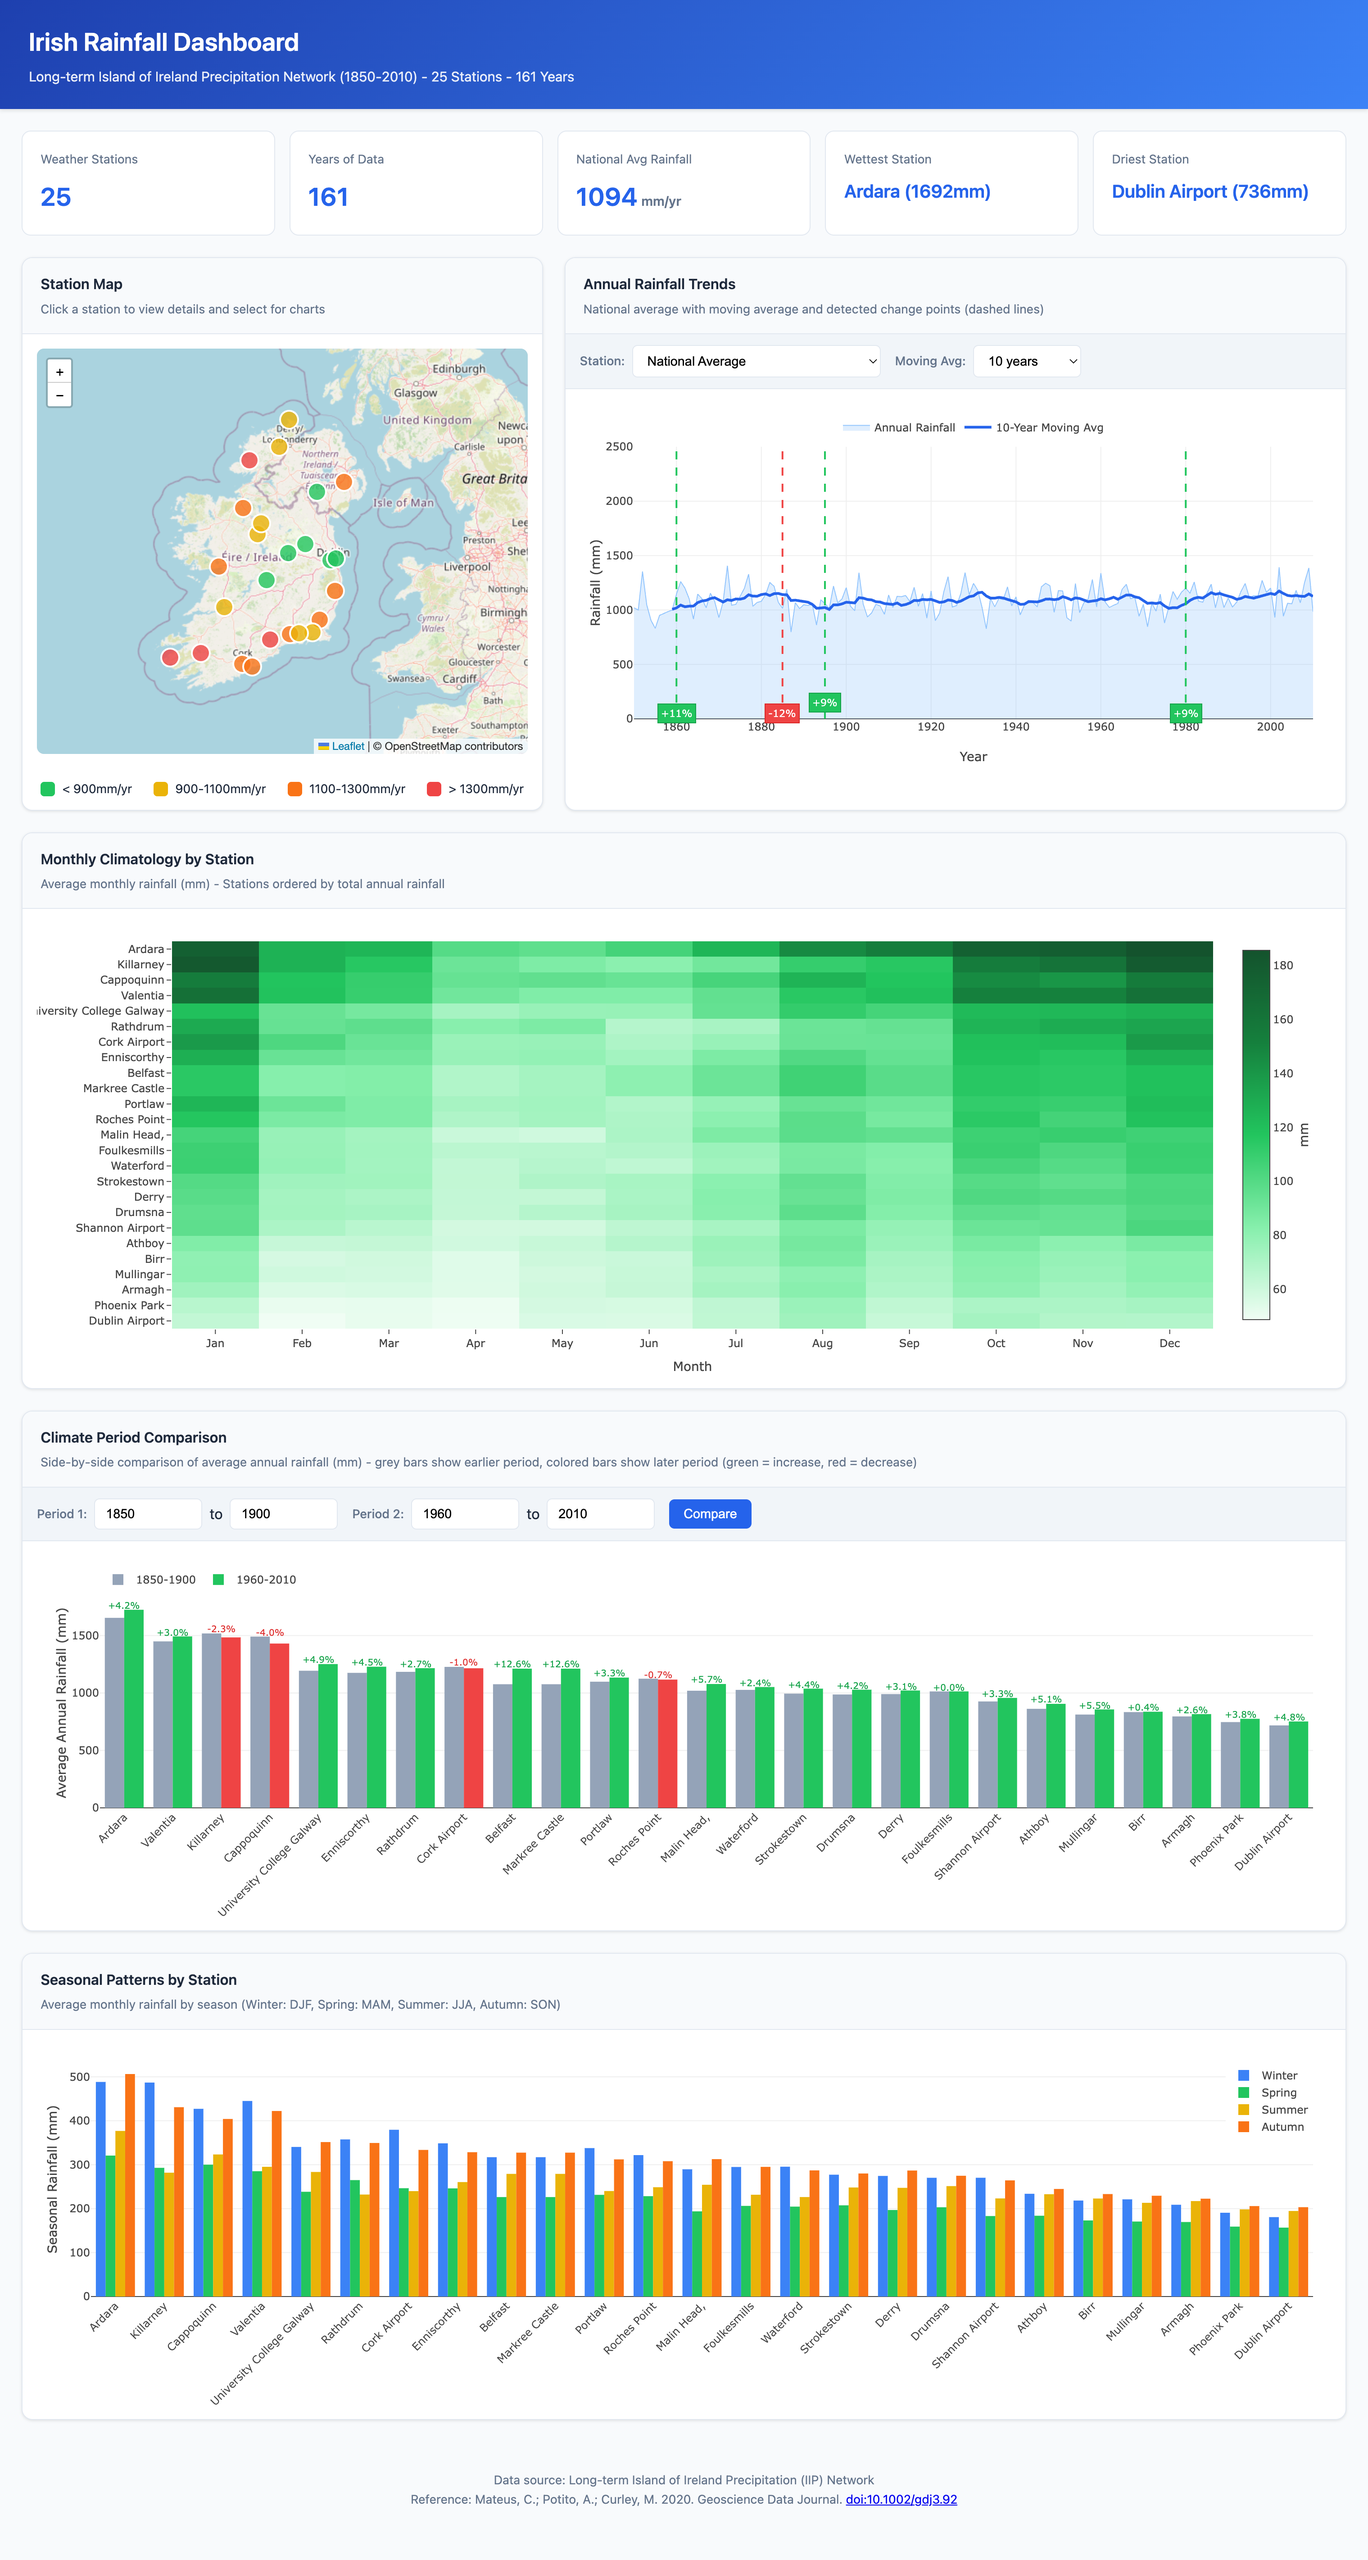
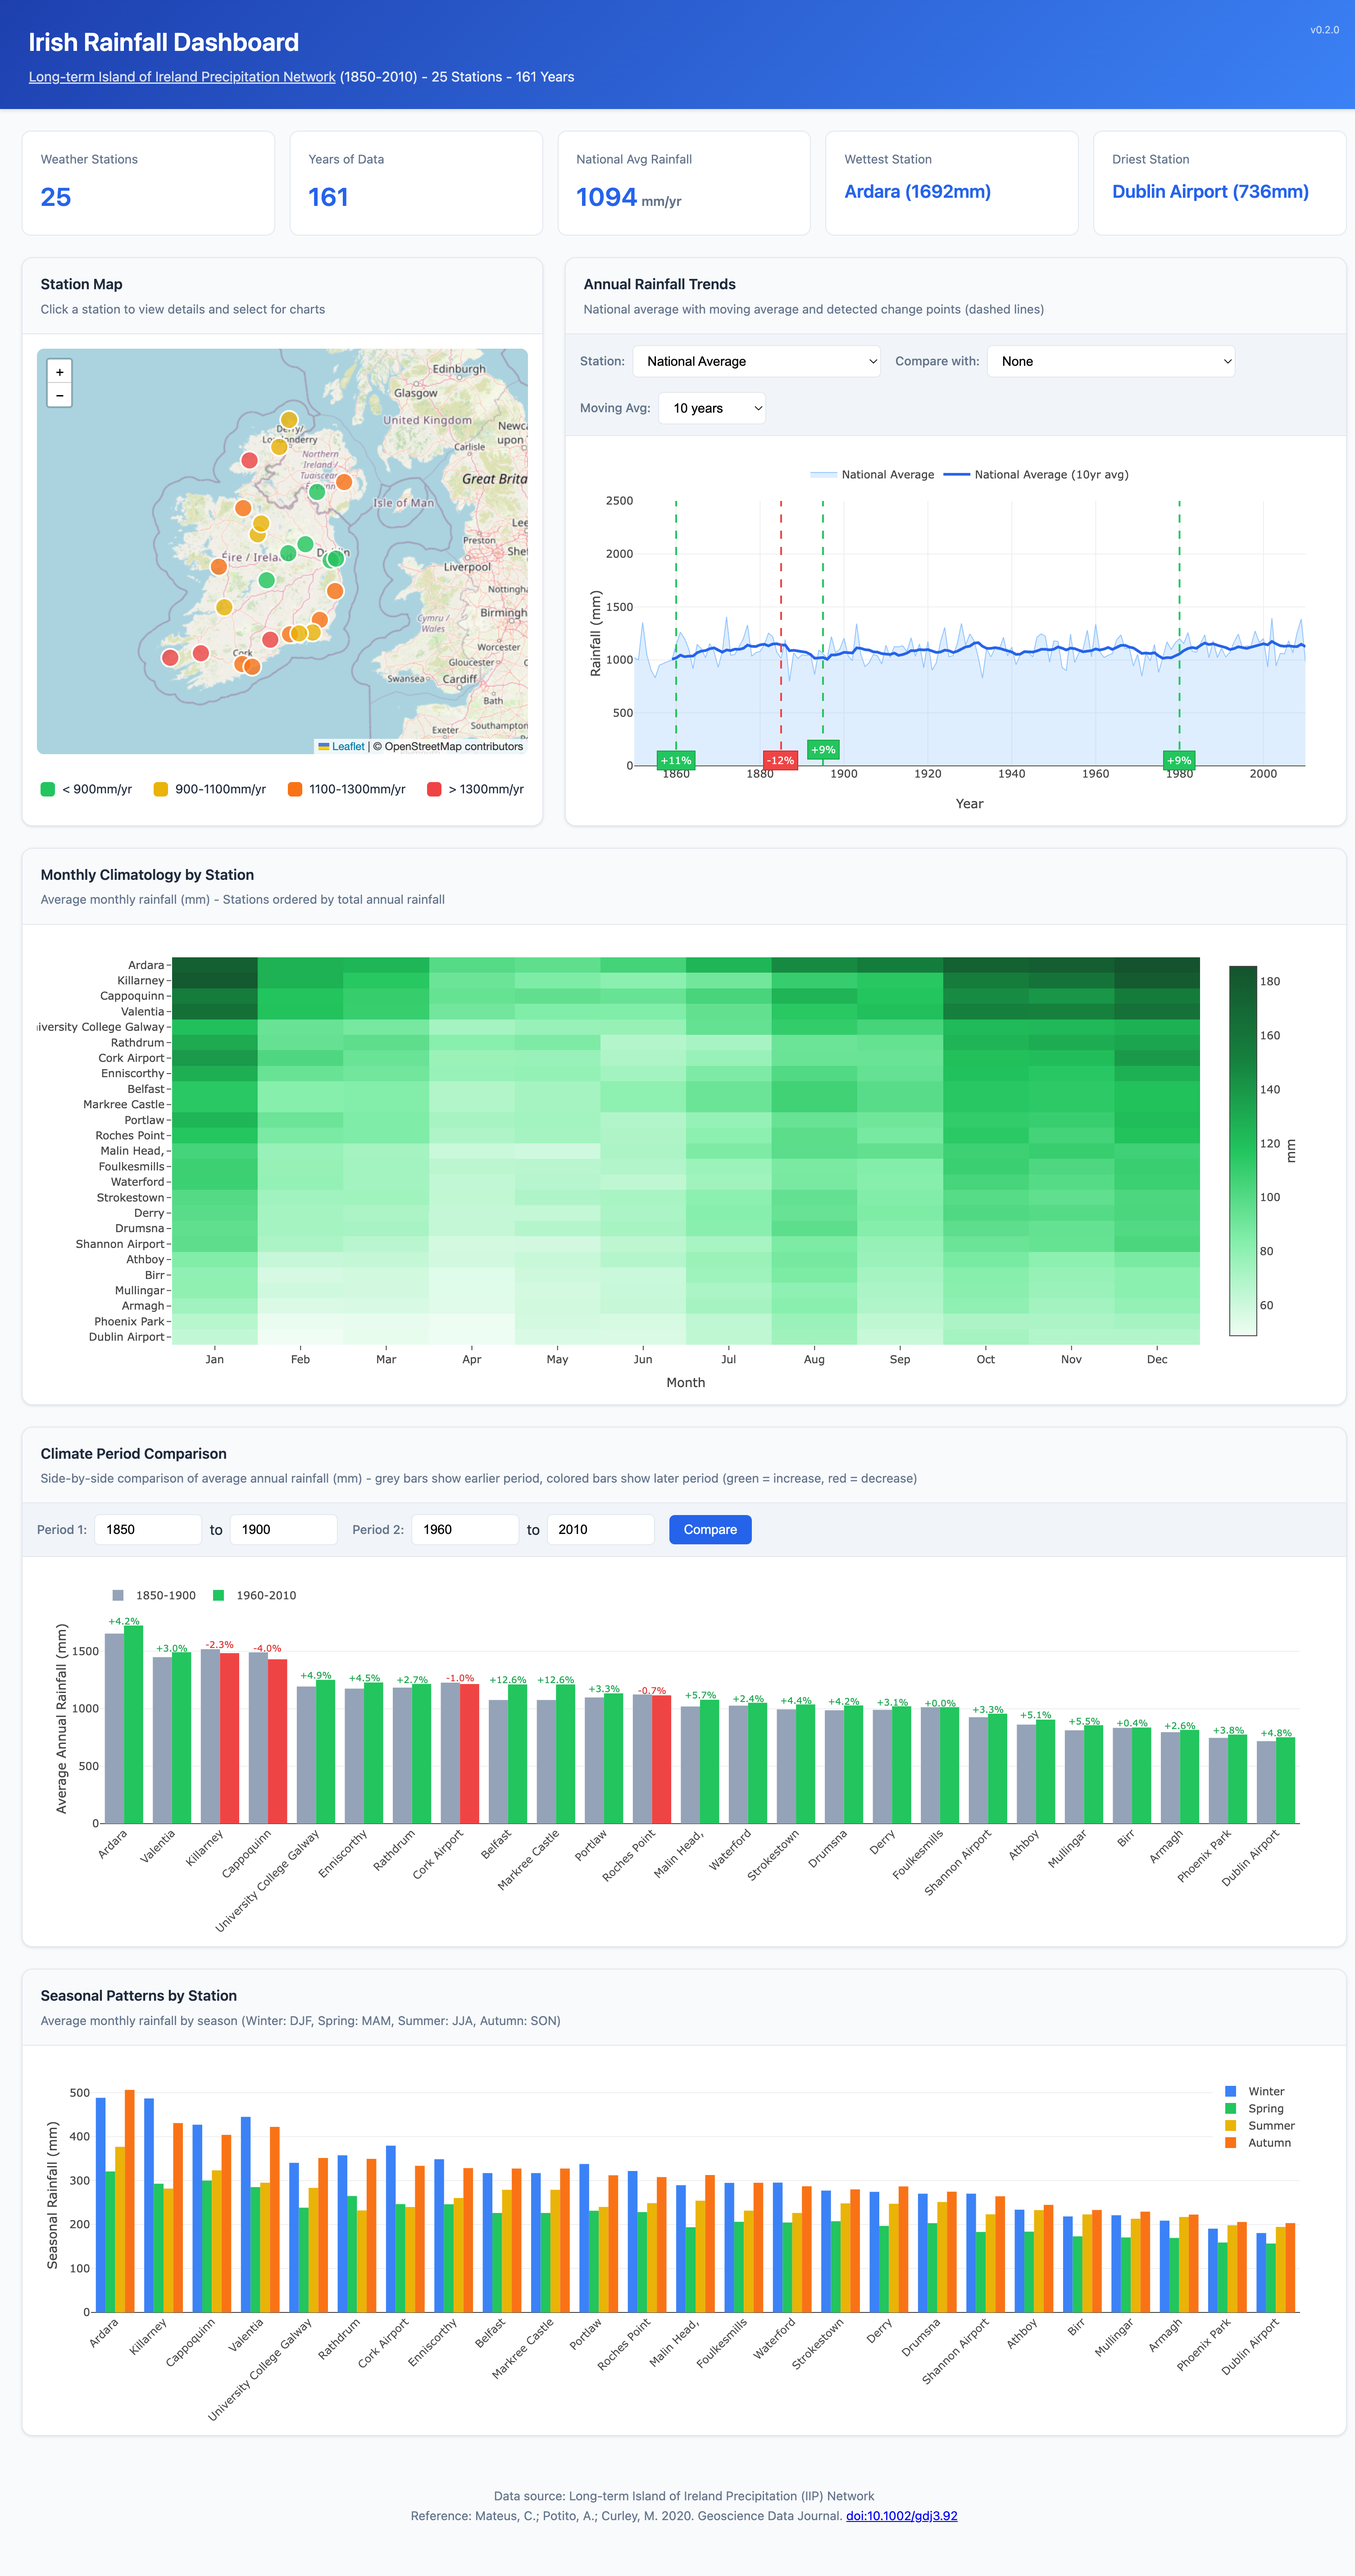
Bump version to 0.2.0
New features in this release:
- Raindrop favicon
- Version string display in header
- Station comparison feature for Annual Rainfall Trends chart

diff --git a/src/irish_rainfall/templates/dashboard.html b/src/irish_rainfall/templates/dashboard.html
@@ -310,7 +310,7 @@
                 <h1>Irish Rainfall Dashboard</h1>
                 <p><a href="https://www.met.ie/climate/available-data/long-term-data-sets/#IIP" target="_blank" style="color: rgba(255,255,255,0.9); text-decoration: underline;">Long-term Island of Ireland Precipitation Network</a> (1850-2010) - 25 Stations - 161 Years</p>
             </div>
-            <span style="font-size: 0.7rem; opacity: 0.7;">v0.1.0</span>
+            <span style="font-size: 0.7rem; opacity: 0.7;">v0.2.0</span>
         </div>
     </header>
 
